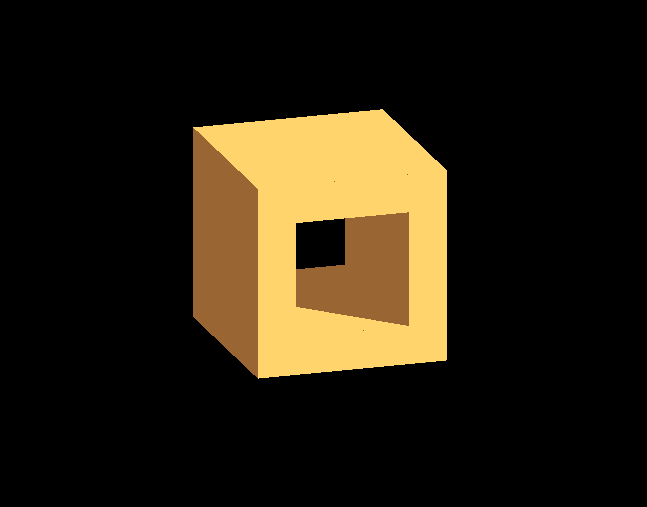
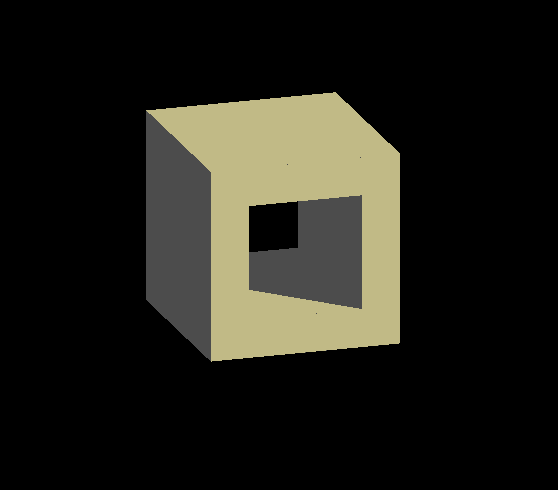
change pic

Changed region(s): [[0.2437, 0.1837, 0.7312, 0.7653]]

diff --git a/src/material.cpp b/src/material.cpp
@@ -3,9 +3,9 @@
 namespace pn_graphics {
 material material::material_sample() {
   material m;
-  m.k_a_r_ = 0.6;
-  m.k_a_g_ = 0.4;
-  m.k_a_b_ = 0.2;
+  m.k_a_r_ = 0.3;
+  m.k_a_g_ = 0.3;
+  m.k_a_b_ = 0.3;
   m.k_d_r_ = 0.8;
   m.k_d_g_ = 0.75;
   m.k_d_b_ = 0.4;
